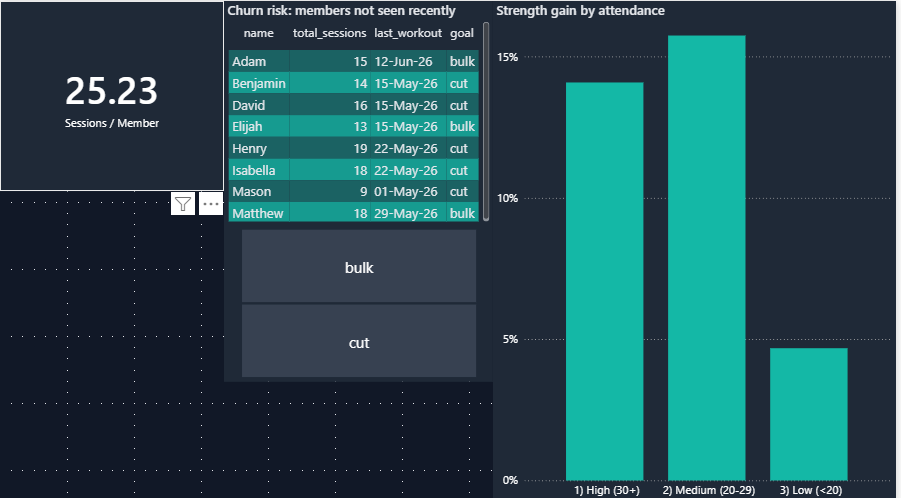
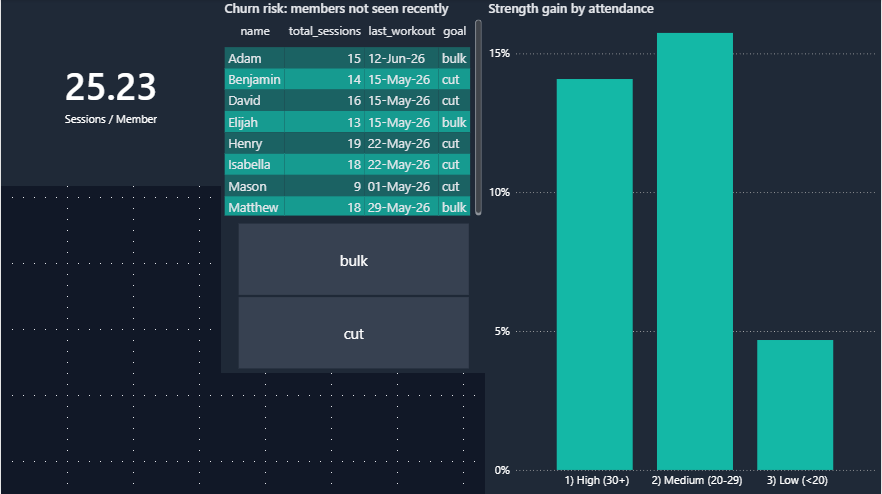
Update dashboard, README and screenshots

diff --git a/README.md b/README.md
@@ -1,5 +1,9 @@
 # 🏋 Gym Performance Analytics
 
+[![CI](https://github.com/Hisham11Computer/Gym-Performance-Analytics/actions/workflows/ci.yml/badge.svg)](https://github.com/YOUR_USERNAME/Gym-Performance-Analytics/actions)
+![SQL](https://img.shields.io/badge/SQL-ANSI-blue) ![Power BI](https://img.shields.io/badge/Power%20BI-dashboard-F2C811) ![Python](https://img.shields.io/badge/Python-3.12-3776AB) ![License](https://img.shields.io/badge/license-MIT-green)
+
+
 End-to-end analytics project: a normalized **SQL** database of gym members, workouts and nutrition, analysed with advanced SQL (CTEs, window functions, views), validated with automated data-quality checks, and presented in an interactive **Power BI** dashboard.
 
 > **Business question:** *Which members are actually getting stronger — and what drives it: goal, calories or consistency?*
@@ -25,14 +29,6 @@ End-to-end analytics project: a normalized **SQL** database of gym members, work
 | 3 | **Low attendance is the clearest drag** | < 20 sessions → 4.7 % gain vs 14–16 % for everyone else |
 | 4 | **8 members are churn risks** | no session in the last 6 gym days |
 
-<p>
-<img src="docs/images/01_improvement_by_goal.png" width="48%">
-<img src="docs/images/03_improvement_by_attendance.png" width="48%">
-</p>
-<p>
-<img src="docs/images/02_calories_vs_improvement.png" width="48%">
-<img src="docs/images/04_top10_members.png" width="48%">
-</p>
 
 Full query outputs are in [`results/`](results/).
 
